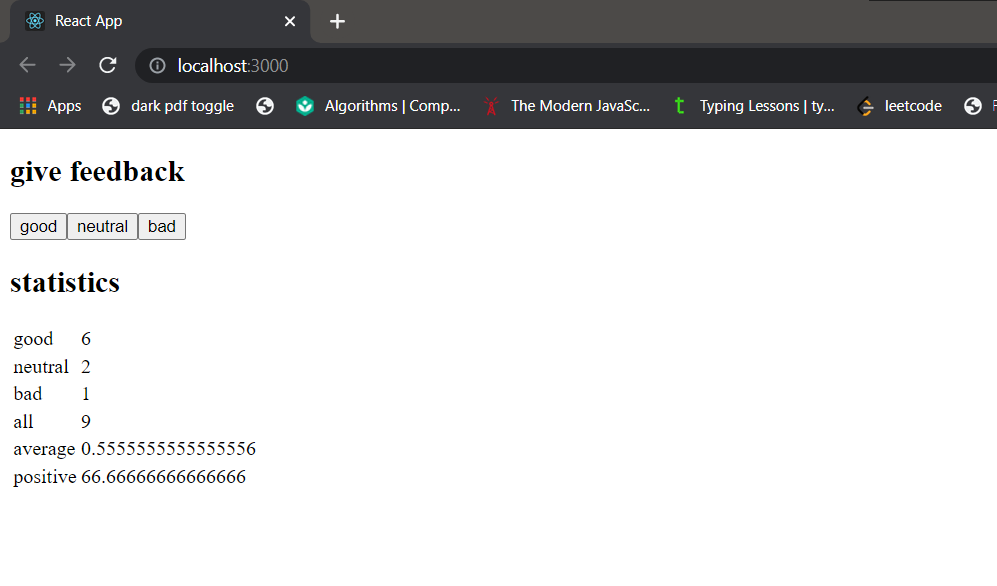
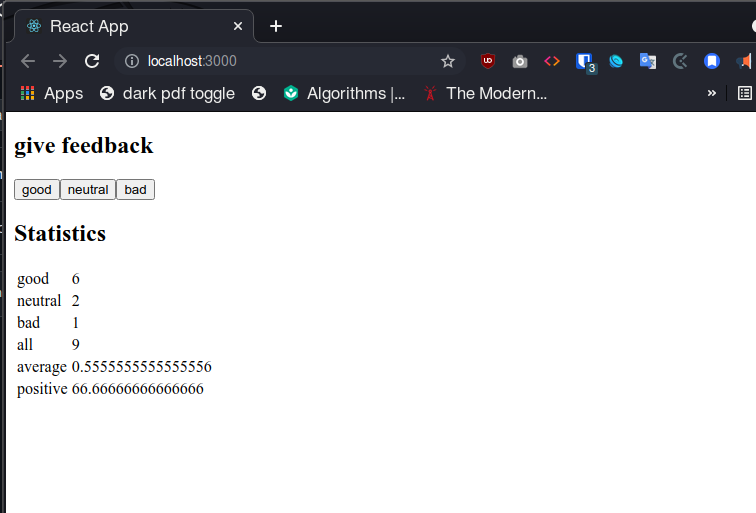
Part 1, Exercises 1.6.-1.11
Completed Exercises 1.6, 1.7, 1.8, 1.9, 1.10, 1.11 in Part 1

Changed region(s): [[0.0, 0.0, 1.0, 1.0], [0.0913, 0.5302, 0.1217, 0.5614]]

diff --git a/part1/unicafe/src/App.js b/part1/unicafe/src/App.js
@@ -1,50 +1,44 @@
 import React,{useState} from 'react';
 
-const App = () =>{
-  const [good,setGood] = useState(0)
-  const [neutral,setNeutral] = useState(0)
-  const [bad,setBad] = useState(0)
-
-  const goodFeedback = () => setGood(good  + 1)
-  const neutralFeedback  = () => setNeutral(neutral + 1)
-  const badFeedback = () => setBad(bad + 1)
+const App = () => {  
+  const [good, setGood] = useState(0)
+  const [neutral, setNeutral] = useState(0)
+  const [bad, setBad] = useState(0)
 
   return (
     <div>
       <h2>give feedback</h2>
       <div>
-        <Button text="good" event={goodFeedback}/>
-        <Button text="neutral" event={neutralFeedback}/>
-        <Button text="bad" event={badFeedback}/>
-      </div>
-      <h2>statistics</h2>
+        <button onClick={()=>setGood(good+1)}>good</button>
+        <button onClick={()=>setNeutral(neutral+1)}>neutral</button>
+        <button onClick={()=>setBad(bad+1)}>bad</button>    
+      </div>      
+      <h2>Statistics</h2>
       <Statistics good={good} neutral={neutral} bad={bad}/>
-    </div>
-  );
+    </div>  
+  )
 }
 
-const Statistics = ({good,neutral,bad}) => {
-
-  if(good !== 0 || neutral!==0 || bad !== 0){
-    const Total = () => good + bad + neutral
-    const Avg  = () =>  ((1*good) + (0*neutral) + (-1 * bad))/Total()
-    const Positive=()=> (good / Total()) * 100
-
-    return (
-      <table>
-        <tbody>
-          <Statistic text="good" value ={good}/>
-          <Statistic text="neutral" value ={neutral}/>
-          <Statistic text="bad" value ={bad}/>
-          <Statistic text="all" value ={Total()}/>
-          <Statistic text="average" value ={Avg()}/>
-          <Statistic text="positive" value ={Positive()}/>
-        </tbody>
-      </table>
-    )
+const Statistics = ({good,neutral,bad}) => { 
+  if(good!==0 || bad!==0 || neutral!==0){
+    const calTotal=()=>good+neutral+bad
+    const calAverage=()=>((good*1)+(neutral*0)+(bad*-1))/calTotal()
+    const calPositive=()=>(good/calTotal())*100
+    return(      
+     <table>
+      <tbody>
+        <Statistic text="good" value={good}/>
+        <Statistic text="neutral" value={neutral}/>
+        <Statistic text="bad" value={bad}/>
+        <Statistic text="all" value={calTotal()}/>
+        <Statistic text="average" value={calAverage()}/>
+        <Statistic text="positive" value={calPositive()}/>
+      </tbody>
+      </table>       
+    )    
   }
   else{
-    return (
+    return(
       <div>
         <p>No feedback given</p>
       </div>
@@ -52,20 +46,13 @@ const Statistics = ({good,neutral,bad}) => {
   }
 }
 
-const Statistic = ({text,value}) => {
-  return (
-    <tr>
-      <td>{text}</td>
-      <td>{value}</td>
-    </tr>
-  )
-}
-const Button = ({text,event}) => {
+const Statistic=({text,value})=>{
   return(
-    <button onClick={event}>
-      {text}
-    </button>
+    <tr>
+      <td>{text}</td>      
+      <td>{value}</td>
+    </tr>    
   )
 }
 
-export default App;
+export default App
